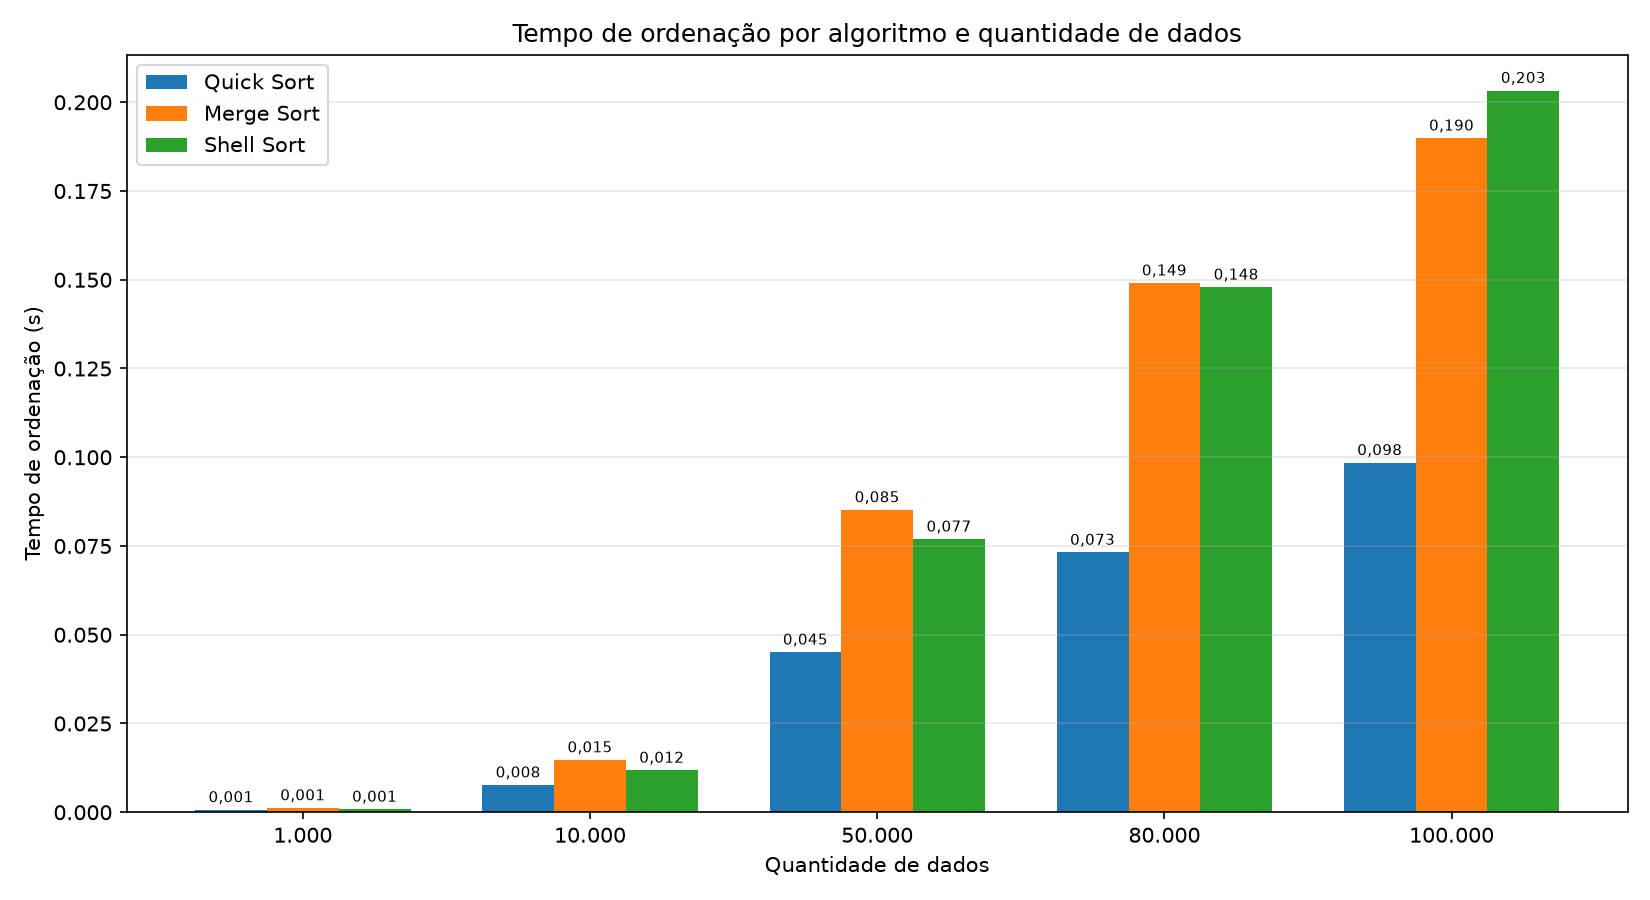
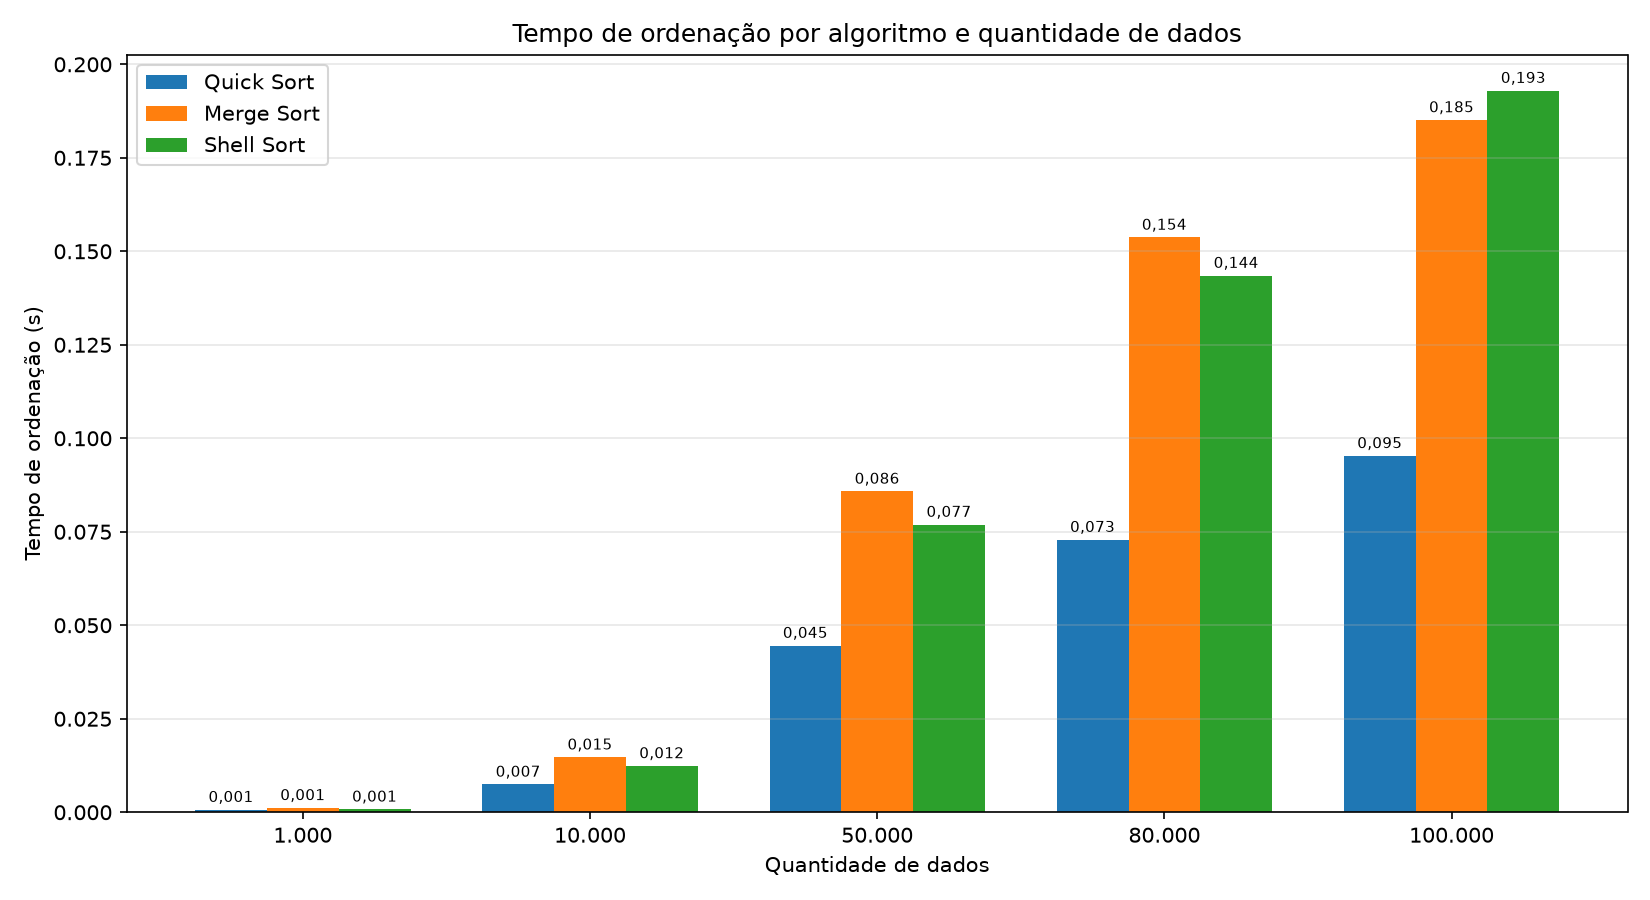
Mantém apenas o teste com dados aleatórios (remove ordenado, invertido e semi-ordenado)

diff --git a/aps/graficos.py b/aps/graficos.py
@@ -4,8 +4,6 @@ Geração de gráficos (matplotlib) a partir dos resultados.
 Gráficos gerados:
   1. linha_<cenario>.png      Tamanho do vetor x Tempo (escala linear e logarítmica)
   2. barras_<cenario>.png     Barras agrupadas por tamanho, uma barra por algoritmo
-  3. comparativo_cenarios.png Algoritmo x Cenário no maior tamanho medido
-  4. linha_<algoritmo>.png    Um gráfico por algoritmo comparando os 4 cenários
 """
 
 from __future__ import annotations
@@ -118,51 +116,5 @@ def gerar_todos(resultados: List[ResultadoTeste], pasta: Path = config.DIR_GRAFI
         ax.grid(True, axis="y", alpha=0.3)
         ax.legend(fontsize=8)
         arquivos.append(_salvar(fig, pasta / f"barras_{cen}.png"))
-
-    # 3) Algoritmo x Cenário no maior n medido (barra ausente = timeout/ignorado)
-    validos = [r for r in resultados if r.status == OK]
-    n_max = max(r.tamanho for r in validos)
-    fig, ax = plt.subplots(figsize=(12, 5.5))
-    largura = 0.8 / max(1, len(cenarios))
-    for i, cen in enumerate(cenarios):
-        ys = []
-        for ch in chaves:
-            mapa = dict(series.get((cen, ch), []))
-            ys.append(mapa.get(n_max, 0))
-        ax.bar([j + i * largura for j in range(len(chaves))], ys, width=largura,
-               label=config.NOMES_CENARIOS[cen])
-    ax.set_xticks([j + largura * (len(cenarios) - 1) / 2 for j in range(len(chaves))])
-    ax.set_xticklabels([algoritmos.obter(c).nome for c in chaves], rotation=15)
-    ax.set_yscale("log")
-    ax.set_ylabel("Tempo de ordenação (s) - escala log")
-    ax.set_title(f"Influência da disposição dos dados (n={config.fmt_int(n_max)})"
-                 + "  |  barra ausente = excedeu o tempo limite"
-                 + (f"\n{subtitulo}" if subtitulo else ""), fontsize=11)
-    ax.grid(True, axis="y", alpha=0.3)
-    ax.legend(fontsize=8)
-    arquivos.append(_salvar(fig, pasta / "comparativo_cenarios.png"))
-
-    # 4) Um gráfico por algoritmo (4 cenários)
-    for ch in chaves:
-        fig, ax = plt.subplots(figsize=(8, 5))
-        tem = False
-        for i, cen in enumerate(cenarios):
-            pts = series.get((cen, ch))
-            if pts:
-                tem = True
-                xs, ys = zip(*pts)
-                ax.plot(xs, ys, marker=_MARCADORES[i % len(_MARCADORES)],
-                        label=config.NOMES_CENARIOS[cen])
-        if not tem:
-            plt.close(fig)
-            continue
-        ax.set_title(f"{algoritmos.obter(ch).nome} - Tamanho x Tempo por cenário"
-                     + (f"\n{subtitulo}" if subtitulo else ""), fontsize=11)
-        ax.set_xlabel("Tamanho do vetor (n)")
-        ax.set_ylabel("Tempo de ordenação (s)")
-        ax.xaxis.set_major_formatter(_fmt_eixo_n())
-        ax.grid(True, alpha=0.3)
-        ax.legend(fontsize=8)
-        arquivos.append(_salvar(fig, pasta / f"algoritmo_{ch}.png"))
 
     return arquivos

diff --git a/aps/dados.py b/aps/dados.py
@@ -3,7 +3,7 @@ Aquisição de dados (NÃO entra na medição de tempo).
 
 Fontes internas : geração aleatória em memória e digitação pelo usuário.
 Fontes externas : leitura de arquivos .txt ou .csv previamente armazenados.
-Cenários        : aleatório, já ordenado, invertido e semi-ordenado.
+Cenário         : dados aleatórios (desordenados).
 """
 
 from __future__ import annotations
@@ -59,40 +59,17 @@ def interpretar_entrada_manual(texto: str) -> List[int]:
 
 
 # ===========================================================================
-# Cenários (disposição dos dados)
+# Cenário (disposição dos dados)
 # ===========================================================================
-def aplicar_cenario(base: List[int], cenario: str, semente: Optional[int] = None) -> List[int]:
+def aplicar_cenario(base: List[int], cenario: str = "aleatorio",
+                    semente: Optional[int] = None) -> List[int]:
     """
-    Retorna uma NOVA lista com a disposição solicitada, a partir dos dados base.
-    A lista base nunca é alterada.
+    Retorna uma NOVA lista (cópia) com os dados na ordem aleatória em que foram
+    gerados/lidos. A lista base nunca é alterada.
     """
     if cenario == "aleatorio":
         return list(base)
-    if cenario == "ordenado":
-        return sorted(base)
-    if cenario == "invertido":
-        return sorted(base, reverse=True)
-    if cenario == "semi_ordenado":
-        return semi_ordenar(base, config.PERC_DESORDEM_SEMI, semente)
     raise ErroDados(f"Cenário desconhecido: {cenario}. Válidos: {', '.join(config.CENARIOS)}")
-
-
-def semi_ordenar(base: List[int], perc: float, semente: Optional[int] = None) -> List[int]:
-    """
-    Ordena os dados e depois troca pares de posições aleatórias, de modo que
-    aproximadamente 'perc' dos elementos fique fora do lugar.
-    Ex.: perc=0.10 -> ~90% dos elementos já estão na posição final.
-    """
-    v = sorted(base)
-    n = len(v)
-    if n < 2:
-        return v
-    rng = random.Random(semente)
-    trocas = max(1, int(n * perc / 2))  # cada troca desloca 2 elementos
-    for _ in range(trocas):
-        i, j = rng.randrange(n), rng.randrange(n)
-        v[i], v[j] = v[j], v[i]
-    return v
 
 
 # ===========================================================================

diff --git a/aps/interface.py b/aps/interface.py
@@ -199,8 +199,7 @@ def _menu_teste_individual(cfg: Configuracao) -> None:
         print(f"\n[ERRO] {e}")
         return
 
-    cenario = escolher_um("Disposição dos dados:", list(config.CENARIOS),
-                          [config.NOMES_CENARIOS[c] for c in config.CENARIOS])
+    cenario = "aleatorio"
     entrada = dados.aplicar_cenario(base, cenario)
     chaves = escolher_varios("Algoritmos:", algoritmos.ORDEM_ALGORITMOS,
                              [a.nome for a in algoritmos.ALGORITMOS.values()], cfg.algoritmos)
@@ -265,8 +264,6 @@ def _menu_configuracoes(cfg: Configuracao) -> None:
     cfg.algoritmos = escolher_varios("Algoritmos:", algoritmos.ORDEM_ALGORITMOS,
                                      [f"{a.nome} - {a.medio}" for a in algoritmos.ALGORITMOS.values()],
                                      cfg.algoritmos)
-    cfg.cenarios = escolher_varios("Cenários:", list(config.CENARIOS),
-                                   [config.NOMES_CENARIOS[c] for c in config.CENARIOS], cfg.cenarios)
     tams = [str(n) for n in config.TAMANHOS_PADRAO]
     cfg.tamanhos = [int(t) for t in escolher_varios(
         "Tamanhos:", tams, [config.fmt_int(n) for n in config.TAMANHOS_PADRAO],

diff --git a/testes/test_algoritmos.py b/testes/test_algoritmos.py
@@ -27,10 +27,8 @@ class TestAlgoritmos(unittest.TestCase):
         for caso in self.CASOS_FIXOS:
             self._verificar(caso)
 
-    def test_todos_os_cenarios(self):
-        base = dados.gerar_aleatorios(2_000, 42)
-        for cenario in config.CENARIOS:
-            self._verificar(dados.aplicar_cenario(base, cenario, 7))
+    def test_dados_aleatorios(self):
+        self._verificar(dados.gerar_aleatorios(2_000, 42))
 
     def test_muitos_repetidos(self):
         rng = random.Random(1)
@@ -52,11 +50,11 @@ class TestDados(unittest.TestCase):
         with self.assertRaises(dados.ErroDados):
             dados.interpretar_entrada_manual("1 abc 100000")
 
-    def test_semi_ordenado_mantem_elementos(self):
+    def test_cenario_aleatorio_nao_altera_base(self):
         base = dados.gerar_aleatorios(1_000, 3)
-        semi = dados.aplicar_cenario(base, "semi_ordenado", 3)
-        self.assertEqual(sorted(semi), sorted(base))
-        self.assertNotEqual(semi, sorted(base))
+        copia = dados.aplicar_cenario(base)
+        self.assertEqual(copia, base)
+        self.assertIsNot(copia, base)
 
 
 if __name__ == "__main__":

diff --git a/aps/config.py b/aps/config.py
@@ -21,18 +21,9 @@ VALOR_MAX = 99_999
 # Tamanhos de amostra exigidos pelo enunciado
 TAMANHOS_PADRAO = (1_000, 10_000, 50_000, 80_000, 100_000)
 
-# Disposições (cenários) dos dados
-CENARIOS = ("aleatorio", "ordenado", "invertido", "semi_ordenado")
-NOMES_CENARIOS = {
-    "aleatorio": "Aleatório",
-    "ordenado": "Já ordenado",
-    "invertido": "Invertido (decrescente)",
-    "semi_ordenado": "Semi-ordenado",
-}
-
-# Percentual de elementos deslocados no cenário semi-ordenado
-# (10% => ~90% dos elementos já estão na posição final)
-PERC_DESORDEM_SEMI = 0.10
+# Disposição dos dados: apenas aleatórios (dados desordenados, como no enunciado)
+CENARIOS = ("aleatorio",)
+NOMES_CENARIOS = {"aleatorio": "Aleatório"}
 
 # Semente padrão: garante que máquinas diferentes ordenem EXATAMENTE os mesmos dados
 SEMENTE_PADRAO = 2026

diff --git a/aps/algoritmos.py b/aps/algoritmos.py
@@ -2,7 +2,7 @@
 Implementações dos algoritmos de ordenação.
 
 Foram mantidos os 3 algoritmos de MELHOR DESEMPENHO na bateria completa de testes
-(soma dos tempos médios nos 4 cenários com n = 100.000):
+(tempo médio com n = 100.000 números aleatórios):
     1º Quick Sort   O(n log n)   não estável  (mediana de três + Hoare, iterativo)
     2º Merge Sort   O(n log n)   estável
     3º Shell Sort   ~O(n^1.3)    não estável  (sequência de Ciura)

diff --git a/README.md b/README.md
@@ -42,7 +42,6 @@ python main.py                      # menu interativo
 python main.py --bateria interno    # todos os testes automaticamente
 ```
 Além do que a versão simples faz, ela tem:
-- 4 cenários: aleatório, já ordenado, invertido e semi-ordenado;
 - leitura de arquivos `.txt` e `.csv` (`python main.py --gerar-arquivos` cria os arquivos de exemplo em `dados/`);
 - entrada de valores digitados pelo usuário;
 - listagem dos valores antes e depois da ordenação;
@@ -57,26 +56,26 @@ Medido em um Intel Xeon Platinum 8488C com Python 3.11. **Cada membro deve rodar
 
 | Algoritmo | 1.000 | 10.000 | 50.000 | 80.000 | 100.000 |
 |---|---|---|---|---|---|
-| Quick Sort | 0,0007 s | 0,0076 s | 0,0451 s | 0,0732 s | 0,0984 s |
-| Merge Sort | 0,0012 s | 0,0147 s | 0,0852 s | 0,1490 s | 0,1899 s |
-| Shell Sort | 0,0008 s | 0,0118 s | 0,0769 s | 0,1479 s | 0,2033 s |
+| Quick Sort | 0,0007 s | 0,0075 s | 0,0446 s | 0,0729 s | 0,0953 s |
+| Merge Sort | 0,0012 s | 0,0147 s | 0,0858 s | 0,1537 s | 0,1851 s |
+| Shell Sort | 0,0008 s | 0,0124 s | 0,0769 s | 0,1435 s | 0,1930 s |
 
 ![Gráfico de barras](grafico_barras.png)
 
 ## Por que esses 3 algoritmos?
 
-Testamos 6 algoritmos (Bubble, Insertion, Shell, Heap, Merge e Quick) nos 4 cenários com 100.000 elementos e mantivemos os 3 com a menor soma de tempos:
+Testamos 6 algoritmos (Bubble, Insertion, Shell, Heap, Merge e Quick) com 100.000 números aleatórios e mantivemos os 3 mais rápidos:
 
-| Algoritmo | Aleatório | Já ordenado | Invertido | Semi-ordenado | Soma |
-|---|---|---|---|---|---|
-| **Quick Sort** | 115,9 ms | 67,6 ms | 84,8 ms | 88,3 ms | **356,6 ms** |
-| **Merge Sort** | 150,3 ms | 15,5 ms | 101,0 ms | 104,5 ms | **371,2 ms** |
-| **Shell Sort** | 190,6 ms | 60,4 ms | 93,8 ms | 143,4 ms | **488,3 ms** |
-| Heap Sort | 197,4 ms | 175,0 ms | 163,5 ms | 174,8 ms | 710,7 ms |
-| Insertion Sort | > 60 s | 6,3 ms | > 60 s | 14,3 s | — |
-| Bubble Sort | > 60 s | 3,7 ms | > 60 s | > 60 s | — |
+| Algoritmo | Tempo (100.000 aleatórios) |
+|---|---|
+| **Quick Sort** | **115,9 ms** |
+| **Merge Sort** | **150,3 ms** |
+| **Shell Sort** | **190,6 ms** |
+| Heap Sort | 197,4 ms |
+| Insertion Sort | > 60 s |
+| Bubble Sort | > 60 s |
 
-Bubble e Insertion são O(n²): passaram de 60 segundos com dados aleatórios e invertidos. O Heap Sort é O(n log n), mas foi o mais lento dos quatro restantes em todos os cenários.
+Bubble e Insertion são O(n²) e passaram de 60 segundos. O Heap Sort é O(n log n), mas ficou atrás dos outros três.
 
 ## Algoritmos
 
